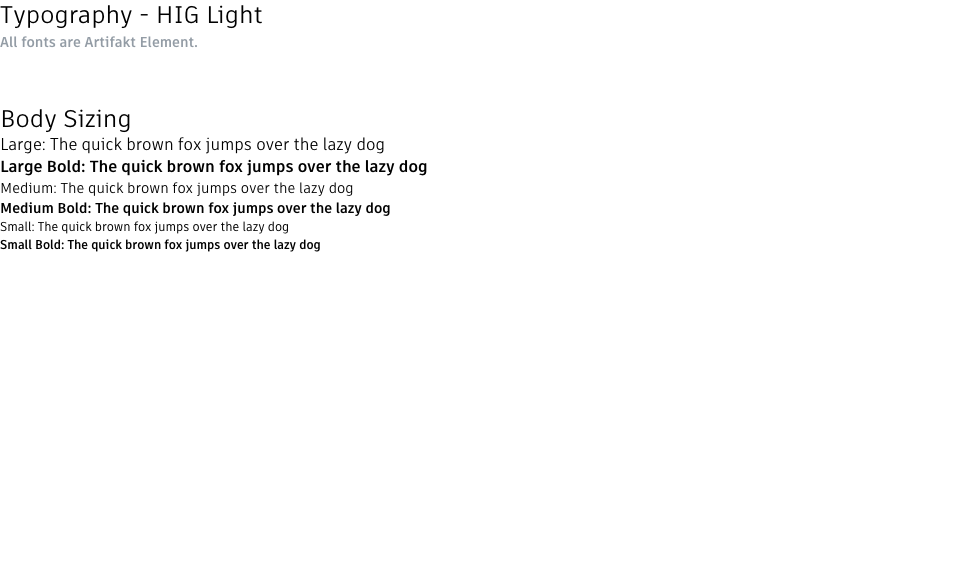
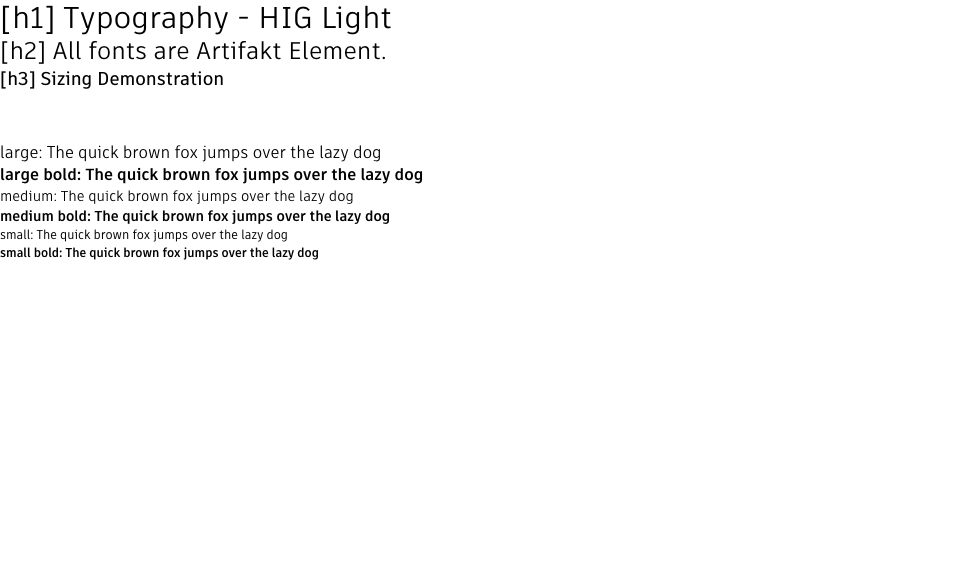
Refactor sizing gemini test

Changed region(s): [[0.0, 0.1799, 0.4668, 0.4797], [0.0, 0.0, 0.4046, 0.1499]]

diff --git a/packages/vanilla/src/basics/typography/tests/tests-typography-sizing.html b/packages/vanilla/src/basics/typography/tests/tests-typography-sizing.html
@@ -16,12 +16,13 @@
 </head>
 
 <body>
-  <div class='tests-typo-pagetitle'></div>
-  <div class='tests-typo-subpagetitle'></div>
+  <div class='tests-typo-group'>
+    <div class='tests-typo-h1'></div>
+    <div class='tests-typo-h2'></div>
+    <div class='tests-typo-h3'></div>
+  </div>
 
   <div class='tests-typo-group'>
-    <div class='tests-typo-sizing-title'></div>
-
     <div class='tests-typo-large'></div>
     <div class='tests-typo-large-bold'></div>
     <div class='tests-typo-medium'></div>
@@ -31,73 +32,44 @@
   </div>
 
   <script>
-    // ----
-    // SIZING
-    // ----
-    var Large = new Hig.Typography({
-      "text": "Large: The quick brown fox jumps over the lazy dog",
-      "type": "body"
+    const H1 = new Hig.Typography({
+      "text": "[h1] Typography - HIG Light",
+      "type": "h1"
     });
-    Large.mount(".tests-typo-large");
-    Large.setSize("large")
+    H1.mount(".tests-typo-h1");
 
-    var LargeBold = new Hig.Typography({
-      "text": "Large Bold: The quick brown fox jumps over the lazy dog",
-      "type": "body"
-    });
-    LargeBold.mount(".tests-typo-large-bold");
-    LargeBold.setSize("large");
-    LargeBold.setBold();
-
-    var Medium = new Hig.Typography({
-      "text": "Medium: The quick brown fox jumps over the lazy dog",
-      "type": "body"
-    });
-    Medium.mount(".tests-typo-medium");
-
-    var MediumBold = new Hig.Typography({
-      "text": "Medium Bold: The quick brown fox jumps over the lazy dog",
-      "type": "body"
-    });
-    MediumBold.mount(".tests-typo-medium-bold");
-    MediumBold.setBold();
-
-    var Small = new Hig.Typography({
-      "text": "Small: The quick brown fox jumps over the lazy dog",
-      "type": "body"
-    });
-    Small.mount(".tests-typo-small");
-    Small.setSize("small");
-
-    var SmallBold = new Hig.Typography({
-      "text": "Small Bold: The quick brown fox jumps over the lazy dog",
-      "type": "body"
-    });
-    SmallBold.mount(".tests-typo-small-bold");
-    SmallBold.setSize("small");
-    SmallBold.setBold();
-
-    // ---------------------------
-    // SPECIFIC TEST PAGE ELEMENTS
-    // ---------------------------
-
-    var PageTitle = new Hig.Typography({
-      "text": "Typography - HIG Light",
+    const H2 = new Hig.Typography({
+      "text": "[h2] All fonts are Artifakt Element.",
       "type": "h2"
     });
-    PageTitle.mount(".tests-typo-pagetitle");
+    H2.mount(".tests-typo-h2");
 
-    var SubPageTitle = new Hig.Typography({
-      "text": "All fonts are Artifakt Element.",
-      "type": "sub1"
+    const H3 = new Hig.Typography({
+      "text": "[h3] Sizing Demonstration",
+      "type": "h3"
     });
-    SubPageTitle.mount(".tests-typo-subpagetitle");
+    H3.mount(".tests-typo-h3");
 
-    var SizingTitle = new Hig.Typography({
-      "text": "Body Sizing",
-      "type": "h2"
+    [
+      'large',
+      'medium',
+      'small'
+    ].forEach(function (size) {
+      const typography = new Hig.Typography({
+        "text": `${size}: The quick brown fox jumps over the lazy dog`,
+        "type": "body"
+      });
+      typography.mount(`.tests-typo-${size}`);
+      typography.setSize(size);
+
+      const boldTypography = new Hig.Typography({
+        "text": `${size} bold: The quick brown fox jumps over the lazy dog`,
+        "type": "body"
+      });
+      boldTypography.mount(`.tests-typo-${size}-bold`);
+      boldTypography.setSize(size);
+      boldTypography.setBold();
     });
-    SizingTitle.mount(".tests-typo-sizing-title");
   </script>
 
 </body>
